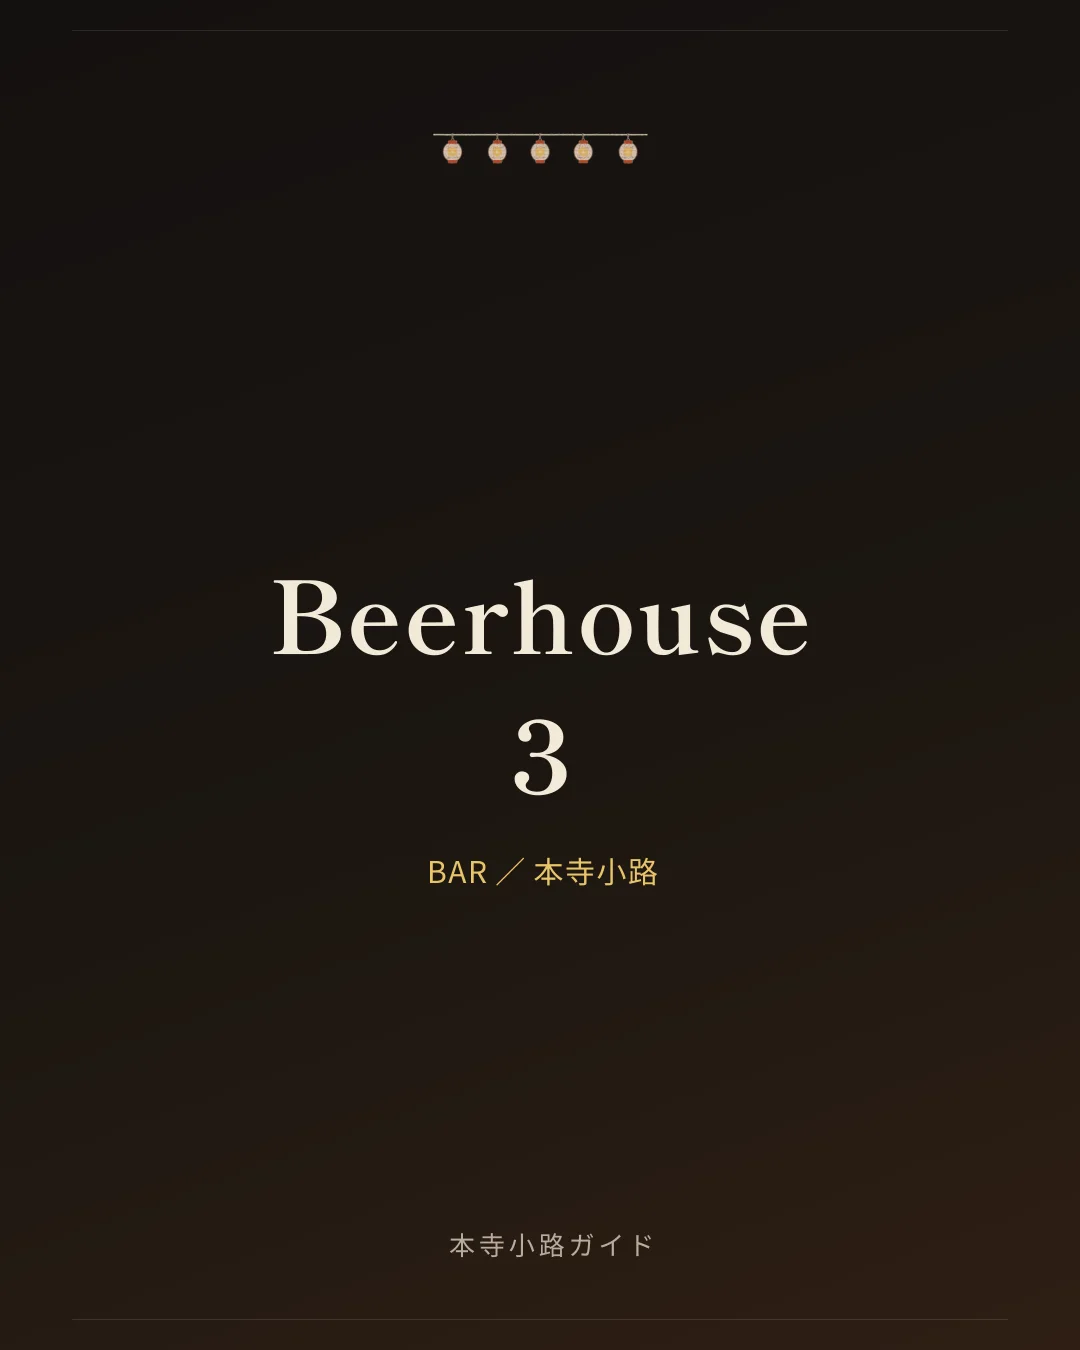
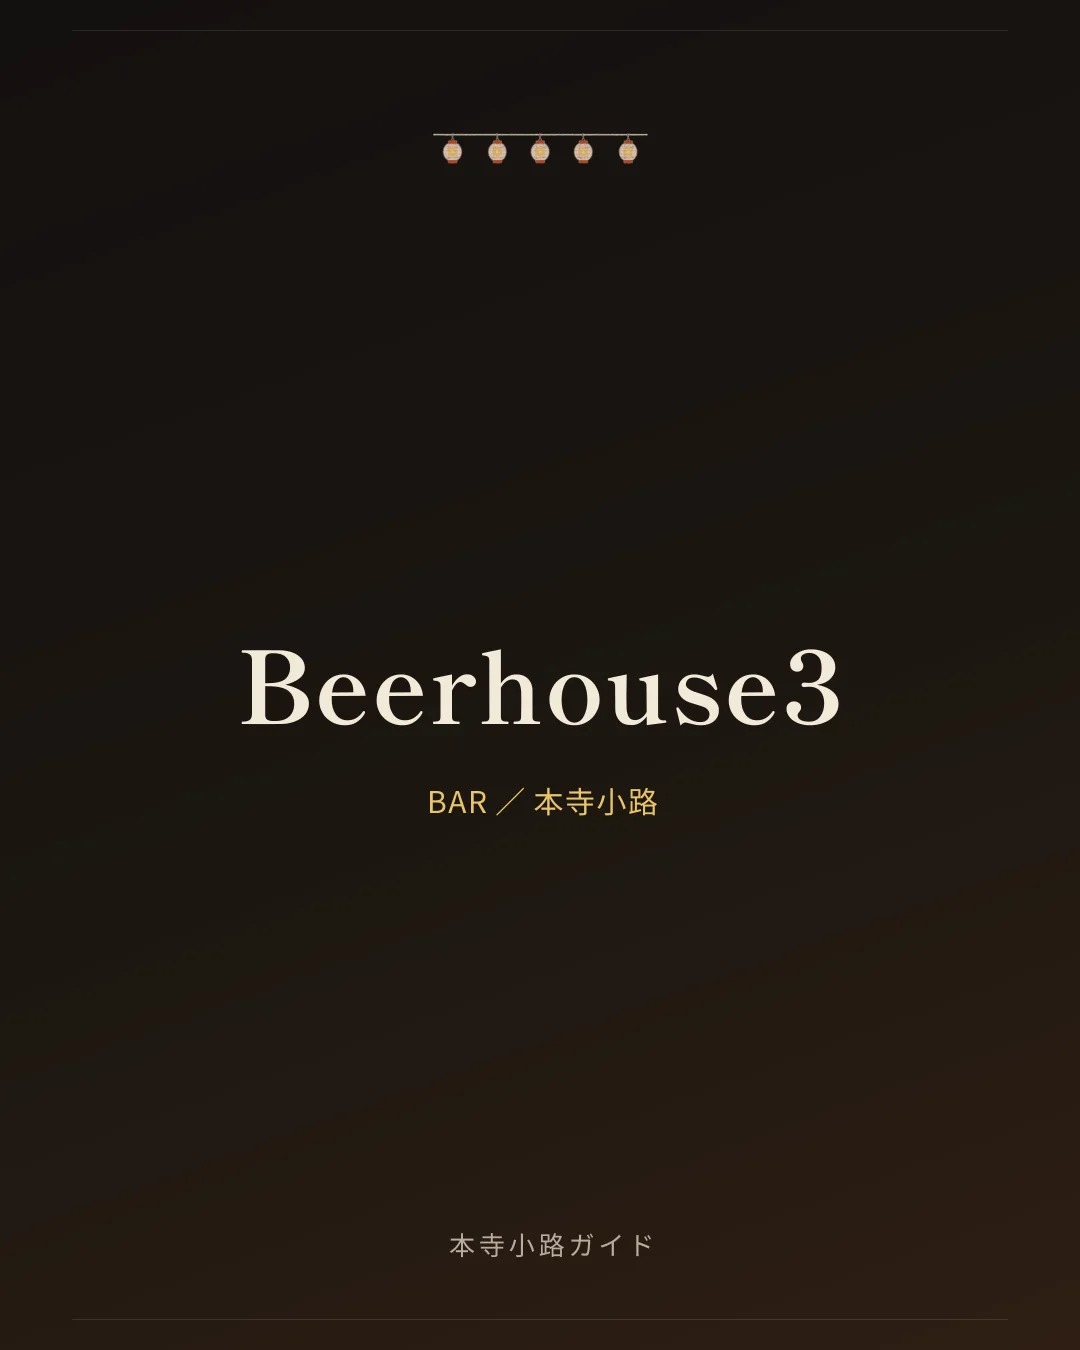
fix(instagram): タイトルの英数字単語を改行位置で分割しないよう修正
wrapJapaneseTitle（Instagramフィード画像のタイトル折り返し）が文字数
ベースの機械的な分割だったため、英数字の店名（例:「Beerhouse3」）が
「Beerhouse」「3」のように単語の途中で改行される不具合があった。

タイトルを折り返し前に「英数字の連続1語」または「それ以外の1文字」の
トークン列に分解し、英数字の単語は分割不可能な1トークンとして扱うよう
変更（tokenizeForWrap）。日本語の禁則処理・助詞の直後を避ける処理は
1文字トークンに対してのみ適用し、既存の挙動を維持している。

既存公開記事(beerhouse3)のInstagramフィード画像は、新しいロジックで
再生成し直した。

Claude-Session: https://claude.ai/code/session_016y8q6zoqqFpZiBFLQ184GU

Changed region(s): [[0.2139, 0.4044, 0.7944, 0.6533], [0.3972, 0.5911, 0.4583, 0.6533]]

diff --git a/scripts/lib/ogpImage.ts b/scripts/lib/ogpImage.ts
@@ -261,6 +261,30 @@ const FEED_HEIGHT = 1350;
 // 吸収する（提灯とサイト名は上下に固定、詳細はbuildFeedTree参照）。
 const FEED_HORIZONTAL_PADDING = 72;
 
+// 英数字の連続（店名に含まれるアルファベット表記・型番等）は、日本語の
+// 文字と違って1文字単位で改行してはいけない「単語」として扱う。
+// 例:「Beerhouse3」を文字数だけで機械的に9文字目で切ると
+// 「Beerhouse」「3」のような不自然な改行になる（実際に報告された不具合）。
+// そのため、折り返し処理に入る前にタイトルを「英数字の連続1語」または
+// 「それ以外の1文字（日本語の文字・記号・空白等、これまで通り1文字単位で
+// 改行してよい）」のトークン列に分解し、英数字の単語だけは分割不可能な
+// 1トークンとして扱う。
+interface WrapToken {
+  text: string;
+  /** 表示上の幅換算に使う文字数。英数字の単語は実際の文字数、それ以外は常に1。 */
+  len: number;
+}
+
+function tokenizeForWrap(title: string): WrapToken[] {
+  const tokens: WrapToken[] = [];
+  for (const segment of title.matchAll(/[A-Za-z0-9]+|./gsu)) {
+    const text = segment[0];
+    const isWord = /^[A-Za-z0-9]+$/.test(text);
+    tokens.push({ text, len: isWord ? [...text].length : 1 });
+  }
+  return tokens;
+}
+
 /**
  * 日本語の禁則処理を簡易的に行うタイトル折り返し。完全な形態素解析はせず、
  * 句読点・記号を優先的な改行位置として扱い、それが無い場合のみ文字数で
@@ -270,25 +294,37 @@ const FEED_HORIZONTAL_PADDING = 72;
  *   （優先的な改行位置が見つからない場合のみ効く。避けようとして
  *   行が短くなりすぎる＝1文字も入らなくなる場合は諦めて機械的に切る）
  * - 行頭に句読点・閉じ括弧が来ないようにする（標準的な禁則処理）
+ * - 英数字の単語（tokenizeForWrap参照）は分割せず、単語の途中で改行しない
  * テスト用にexportする。
  */
 export function wrapJapaneseTitle(title: string, maxCharsPerLine: number): string[] {
   const PREFERRED_BREAK_AFTER = /[。！？、」』）]/;
   const AVOID_BREAK_AFTER = /[とのでを]/;
   const FORBIDDEN_LINE_START = /[。！？、」』）]/;
+  // 禁則・助詞判定は「1文字トークン」にのみ意味を持つ（英数字の単語トークンは対象外）。
+  const isSingleChar = (token: WrapToken | undefined): token is WrapToken => !!token && token.len === 1 && [...token.text].length === 1;
 
-  const chars = [...title];
+  const tokens = tokenizeForWrap(title);
   const lines: string[] = [];
   let lineStart = 0;
 
-  while (lineStart < chars.length) {
-    let breakAt = Math.min(lineStart + maxCharsPerLine, chars.length);
+  while (lineStart < tokens.length) {
+    // 1トークン目は必ず含める（単語単体がmaxCharsPerLineを超える場合でも、
+    // 1文字も入れられないよりは1単語だけの行にする）。そこから先は
+    // maxCharsPerLineを超えない範囲で貪欲にトークンを詰める。
+    let breakAt = lineStart + 1;
+    let lineLen = tokens[lineStart].len;
+    while (breakAt < tokens.length && lineLen + tokens[breakAt].len <= maxCharsPerLine) {
+      lineLen += tokens[breakAt].len;
+      breakAt += 1;
+    }
 
-    if (breakAt < chars.length) {
-      // 1) breakAt以内で、直近の「優先的な改行位置」を後ろから探す。
+    if (breakAt < tokens.length) {
+      // 1) breakAt以内で、直近の「優先的な改行位置」（1文字トークン）を後ろから探す。
       let candidate = -1;
       for (let i = breakAt; i > lineStart; i -= 1) {
-        if (PREFERRED_BREAK_AFTER.test(chars[i - 1])) {
+        const token = tokens[i - 1];
+        if (isSingleChar(token) && PREFERRED_BREAK_AFTER.test(token.text)) {
           candidate = i;
           break;
         }
@@ -298,18 +334,23 @@ export function wrapJapaneseTitle(title: string, maxCharsPerLine: number): strin
       } else {
         // 2) 優先的な改行位置が無ければ、助詞の直後で終わるのを避ける
         //    （行が空にならない範囲でのみ）。
-        while (breakAt > lineStart + 1 && AVOID_BREAK_AFTER.test(chars[breakAt - 1])) {
+        while (breakAt > lineStart + 1 && isSingleChar(tokens[breakAt - 1]) && AVOID_BREAK_AFTER.test(tokens[breakAt - 1].text)) {
           breakAt -= 1;
         }
       }
       // 3) 禁則処理: 行頭に句読点・閉じ括弧が来る場合は、その文字も
       //    前の行に含める。
-      while (breakAt < chars.length && FORBIDDEN_LINE_START.test(chars[breakAt])) {
+      while (breakAt < tokens.length && isSingleChar(tokens[breakAt]) && FORBIDDEN_LINE_START.test(tokens[breakAt].text)) {
         breakAt += 1;
       }
     }
 
-    lines.push(chars.slice(lineStart, breakAt).join(''));
+    lines.push(
+      tokens
+        .slice(lineStart, breakAt)
+        .map((t) => t.text)
+        .join('')
+    );
     lineStart = breakAt;
   }
 

diff --git a/scripts/lib/ogpImage.test.ts b/scripts/lib/ogpImage.test.ts
@@ -49,4 +49,19 @@ describe('wrapJapaneseTitle', () => {
     const lines = wrapJapaneseTitle('あいうえとかきくけこ', 5);
     expect(lines[0].endsWith('と')).toBe(false);
   });
+
+  it('英数字の単語はmaxCharsPerLineをまたいでも途中で改行しない（実際に報告された不具合）', () => {
+    // 「Beerhouse3」(10文字)をmaxCharsPerLine=9で機械的に切ると
+    // 「Beerhouse」「3」に分かれてしまっていた。
+    const lines = wrapJapaneseTitle('Beerhouse3', 9);
+    expect(lines).toEqual(['Beerhouse3']);
+  });
+
+  it('英単語＋日本語が混在する場合も、英単語の途中では改行しない', () => {
+    // 単語「BAR」(3文字) + 「え」「び」(各1文字) = 5 <= 5 でちょうど1行目に収まり、
+    // 「す」を足すと5を超えるので2行目へ。
+    const lines = wrapJapaneseTitle('BARえびすまち', 5);
+    expect(lines[0]).toBe('BARえび');
+    expect(lines.join('')).toBe('BARえびすまち');
+  });
 });
